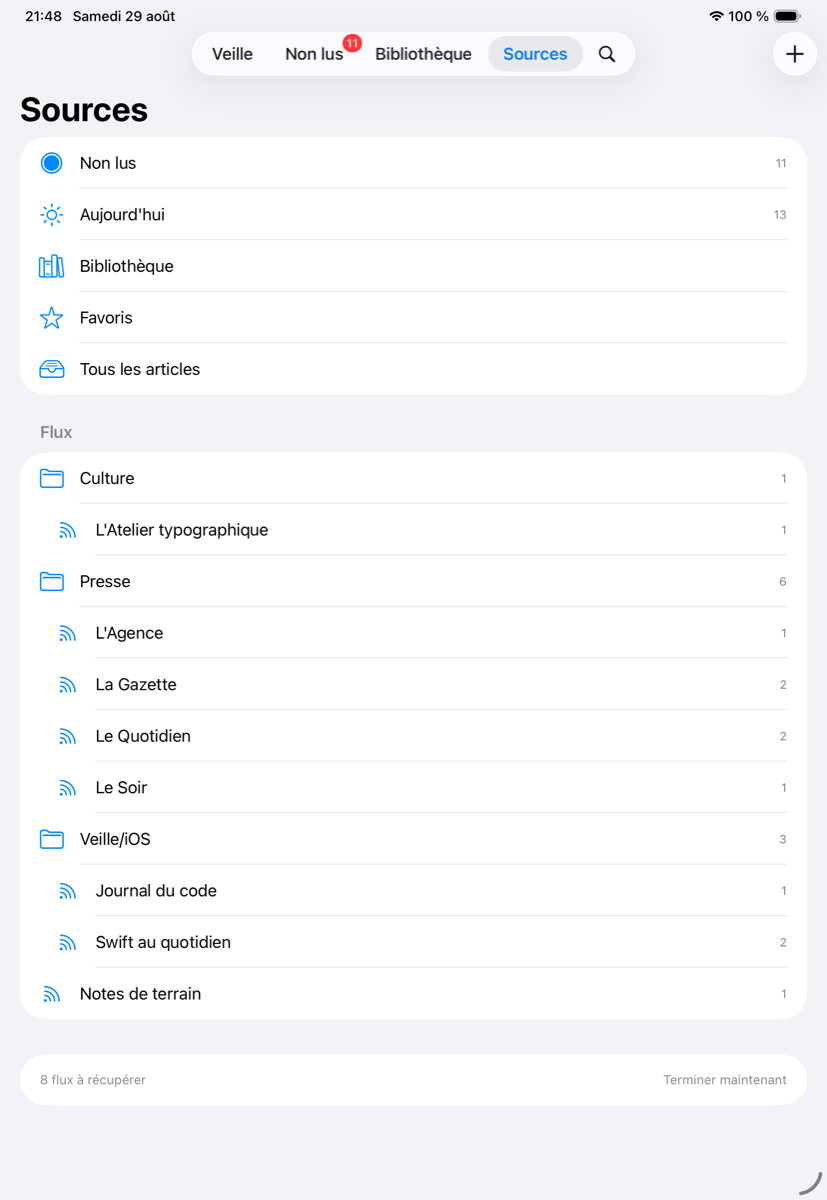
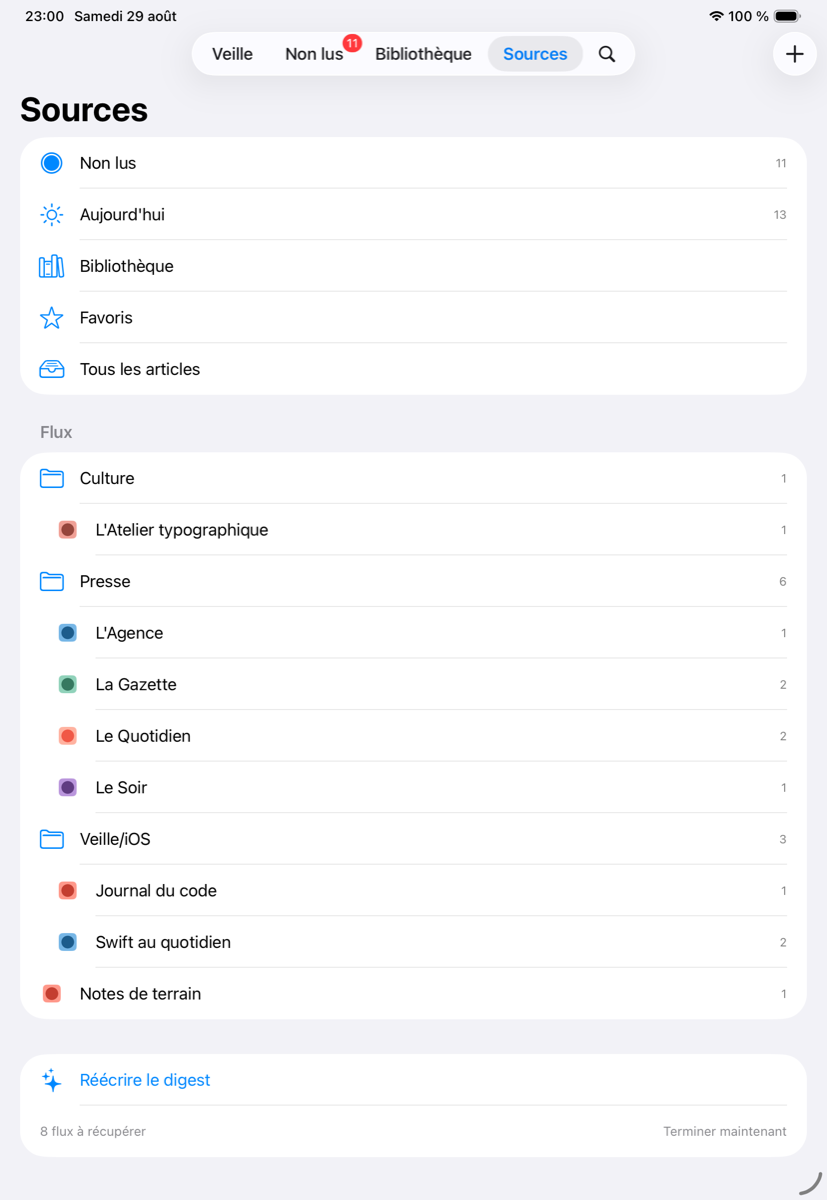
Give each source its mark
A list of feeds is a list of names, and names take reading. A mark is
recognized before it is read, which is the whole of what a favicon is
for. It stands beside a feed in the sources list, in place of the generic
symbol, and beside the name of the room on every article row.

Three addresses are tried, in order : what the feed states, since the
publisher chose it and Atom and JSON Feed both mean a square by it ;
`apple-touch-icon.png`, a well-known path, square by convention and large
enough to stay crisp where a sixteen pixel favicon would not ; and
`favicon.ico`, the oldest well-known path and still the most widely
served, since browsers ask for it whether a page mentions it or not. The
well-known ones hang off the root of the site, never off the page the
feed happens to point at.

Nothing is asked for until a row is on screen, and what comes back is
kept on disk by the same store that keeps the pictures, so a feed costs
one request rather than one per appearance. A feed that answers none of
the three wears the generic mark : a list of sources must keep its column
of marks whether a publisher serves one or not, which is the one place a
picture does not simply vanish when it fails.

Nothing new travels or is stored : `Feed.iconURL` was already parsed,
already kept and already synchronized ; it was simply never drawn.

319 tests, 4 of them new, passing on macOS and on the iOS simulator.

diff --git a/Flong/Support/FeedIcon.swift b/Flong/Support/FeedIcon.swift
@@ -1,0 +1,102 @@
+//
+//  FeedIcon.swift
+//  Flong
+//
+//  Created by François Rousselet on 29/08/2026.
+//
+//  This Source Code Form is subject to the terms of the Mozilla Public
+//  License, v. 2.0. If a copy of the MPL was not distributed with this
+//  file, You can obtain one at https://mozilla.org/MPL/2.0/.
+//
+
+import CoreGraphics
+import SwiftUI
+
+/// The mark a source puts on its own articles.
+///
+/// A list of feeds is a list of names, and names take reading. A mark is
+/// recognized before it is read, which is the whole of what a favicon is for.
+///
+/// Three addresses are tried, in this order :
+///
+/// 1. **What the feed states**, since the publisher chose it. Atom's `icon` and
+///    JSON Feed's `icon` and `favicon` are square by their specifications ;
+///    RSS's `image` is a banner, and a banner cropped to a square still shows
+///    the middle of a logo, which is usually the logo.
+/// 2. **`apple-touch-icon.png`**, a well-known path, square by convention and
+///    large enough to stay crisp where a sixteen pixel favicon would not.
+/// 3. **`favicon.ico`**, the oldest well-known path and still the most widely
+///    served, since browsers ask for it whether a page mentions it or not.
+///
+/// Nothing is asked for until a row is on screen, and what comes back is kept
+/// on disk, so a feed costs one request and not one per appearance. A feed that
+/// answers none of the three wears the generic mark and is asked no more that
+/// session.
+nonisolated enum FeedIcon {
+    static let wellKnown = ["apple-touch-icon.png", "favicon.ico"]
+
+    /// The addresses worth trying for a source, best first.
+    static func candidates(stated: URL?, site: URL?) -> [URL] {
+        var addresses: [URL] = []
+        if let stated { addresses.append(stated) }
+
+        // The well-known paths hang off the root of the site, never off the page
+        // the feed happens to point at.
+        if let site, let host = site.host(), let scheme = site.scheme,
+            var root = URL(string: "\(scheme)://\(host)")
+        {
+            if let port = site.port { root = URL(string: "\(scheme)://\(host):\(port)") ?? root }
+            addresses.append(contentsOf: wellKnown.map { root.appending(path: $0) })
+        }
+
+        var seen = Set<URL>()
+        return addresses.filter { seen.insert($0).inserted }
+    }
+}
+
+/// The mark of a source, at the size it is shown.
+struct FeedIconView: View {
+    let stated: URL?
+    let site: URL?
+    var side: CGFloat = 18
+
+    @State private var image: CGImage?
+    @Environment(\.displayScale) private var displayScale
+
+    var body: some View {
+        Group {
+            if let image {
+                Image(decorative: image, scale: displayScale)
+                    .resizable()
+                    .scaledToFill()
+                    .frame(width: side, height: side)
+                    .clipShape(.rect(cornerRadius: side / 4.5))
+            } else {
+                // Not a blank : a list of feeds must keep its column of marks
+                // whether a publisher serves one or not.
+                Image(systemName: "dot.radiowaves.up.forward")
+                    .font(.system(size: side * 0.8))
+                    .foregroundStyle(.secondary)
+                    .frame(width: side, height: side)
+            }
+        }
+        .accessibilityHidden(true)
+        .task(id: stated ?? site) { await load() }
+    }
+
+    private func load() async {
+        let candidates = FeedIcon.candidates(stated: stated, site: site)
+        guard !candidates.isEmpty else { return }
+
+        let pixels = max(Int(side * displayScale), 1)
+        for candidate in candidates {
+            guard !Task.isCancelled else { return }
+            guard let found = try? await ImageStore.shared.image(at: candidate, maximumPixels: pixels) else {
+                continue
+            }
+
+            withAnimation(.easeOut(duration: 0.15)) { image = found }
+            return
+        }
+    }
+}

diff --git a/FlongTests/CoverImageTests.swift b/FlongTests/CoverImageTests.swift
@@ -140,4 +140,52 @@ struct CoverImageTests {
         // relative one here means a body that never went through it.
         #expect(CoverImage.inBody(html)?.absoluteString == "https://example.com/photo.jpg")
     }
+
+    // MARK: - The mark of a source
+
+    @Test("A source is tried where it says, then where marks are kept")
+    func iconCandidates() throws {
+        let stated = URL(string: "https://cdn.example.com/logo.png")!
+        let site = URL(string: "https://www.example.com/blog/")!
+
+        let candidates = FeedIcon.candidates(stated: stated, site: site).map(\.absoluteString)
+
+        #expect(
+            candidates == [
+                "https://cdn.example.com/logo.png",
+                // Off the root of the site, never off the page the feed points at.
+                "https://www.example.com/apple-touch-icon.png",
+                "https://www.example.com/favicon.ico",
+            ]
+        )
+    }
+
+    @Test("A source that states nothing is still looked for")
+    func iconWithoutAStatedOne() throws {
+        let candidates = FeedIcon.candidates(
+            stated: nil,
+            site: URL(string: "https://example.com:8443/feed.xml")
+        )
+        .map(\.absoluteString)
+
+        // The port is part of where the site is.
+        #expect(
+            candidates == ["https://example.com:8443/apple-touch-icon.png", "https://example.com:8443/favicon.ico"])
+    }
+
+    @Test("A source with nowhere to look for a mark is not looked for")
+    func iconWithNothingToGoOn() {
+        #expect(FeedIcon.candidates(stated: nil, site: nil).isEmpty)
+    }
+
+    @Test("A stated mark that is already a well-known path is tried once")
+    func iconWithoutDuplicates() throws {
+        let candidates = FeedIcon.candidates(
+            stated: URL(string: "https://example.com/favicon.ico"),
+            site: URL(string: "https://example.com/")
+        )
+
+        #expect(candidates.count == 2)
+        #expect(candidates.first?.absoluteString == "https://example.com/favicon.ico")
+    }
 }

diff --git a/Flong/Store/ArticleStore.swift b/Flong/Store/ArticleStore.swift
@@ -41,6 +41,10 @@ nonisolated struct ArticleSummary: Identifiable, Hashable, Sendable, FetchableRe
     let url: URL?
     /// The article's picture, when it has one.
     let imageURL: URL?
+    /// Where the source keeps its mark, and where the source itself is, for
+    /// the well-known paths a mark also lives at.
+    let feedIconURL: URL?
+    let feedSiteURL: URL?
 
     init(row: Row) {
         id = row["id"]
@@ -56,6 +60,10 @@ nonisolated struct ArticleSummary: Identifiable, Hashable, Sendable, FetchableRe
         hasMedia = row["has_media"] ?? false
         url = (row["url"] as String?).flatMap(URL.init(string:))
         imageURL = (row["image_url"] as String?).flatMap(URL.init(string:))
+        feedIconURL = (row["icon_url"] as String?).flatMap(URL.init(string:))
+        feedSiteURL =
+            (row["site_url"] as String?).flatMap(URL.init(string:))
+            ?? (row["feed_url"] as String?).flatMap(URL.init(string:))
     }
 }
 
@@ -149,6 +157,7 @@ nonisolated struct ArticleStore: Sendable {
     static let columns = """
         SELECT e.id, 'stream' AS origin, e.feed_id, e.title, e.excerpt, e.author, e.url,
                e.is_read, e.is_starred, e.has_media, e.image_url,
+               f.icon_url, f.site_url, f.url AS feed_url,
                COALESCE(e.published_at, e.received_at) AS date,
                f.title AS feed_title
         """

diff --git a/Flong/App/AppModel.swift b/Flong/App/AppModel.swift
@@ -28,6 +28,9 @@ nonisolated struct SidebarItem: Identifiable, Hashable, Sendable {
     /// in the reader's language.
     let title: String?
     let unreadCount: Int
+    /// Where a feed keeps its mark, when it is a feed and it states one.
+    var iconURL: URL?
+    var siteURL: URL?
     var children: [SidebarItem] = []
 
     var id: Kind { kind }
@@ -526,7 +529,13 @@ final class AppModel {
     }
 
     private func item(for feed: Feed, counts: [UUID: Int]) -> SidebarItem {
-        SidebarItem(kind: .feed(feed.id), title: feed.title, unreadCount: counts[feed.id] ?? 0)
+        SidebarItem(
+            kind: .feed(feed.id),
+            title: feed.title,
+            unreadCount: counts[feed.id] ?? 0,
+            iconURL: feed.iconURL,
+            siteURL: feed.siteURL ?? feed.url
+        )
     }
 
     /// Whether the list is showing the library rather than a view of the stream.

diff --git a/Flong/Features/Digest/DigestScreen.swift b/Flong/Features/Digest/DigestScreen.swift
@@ -368,9 +368,12 @@ struct ArticleRow: View {
                             .multilineTextAlignment(.leading)
                     }
 
-                    HStack(spacing: 8) {
+                    HStack(spacing: 6) {
+                        FeedIconView(stated: article.feedIconURL, site: article.feedSiteURL, side: 13)
+
                         Text(verbatim: article.feedTitle)
                             .lineLimit(1)
+                            .padding(.trailing, 2)
                         Text(article.date, format: .relative(presentation: .numeric))
                             .lineLimit(1)
                         if article.isStarred {

diff --git a/Flong/Features/Shell/SourcesScreen.swift b/Flong/Features/Shell/SourcesScreen.swift
@@ -209,7 +209,13 @@ struct SourcesScreen: View {
                     }
                 }
             } icon: {
-                Image(systemName: Self.icon(of: item.kind))
+                // A feed wears its own mark ; the views above it are the
+                // application's own and wear the application's symbols.
+                if case .feed = item.kind {
+                    FeedIconView(stated: item.iconURL, site: item.siteURL)
+                } else {
+                    Image(systemName: Self.icon(of: item.kind))
+                }
             }
         }
         .buttonStyle(.plain)

diff --git a/Flong/Store/LibraryStore.swift b/Flong/Store/LibraryStore.swift
@@ -224,6 +224,7 @@ nonisolated struct LibraryStore: Sendable {
                COALESCE(feed_title, '') AS feed_title,
                title, author, url,
                1 AS is_read, 1 AS is_starred, 0 AS has_media, image_url,
+               NULL AS icon_url, feed_url AS site_url, feed_url,
                SUBSTR(COALESCE(plain_text, ''), 1, 300) AS excerpt,
                COALESCE(published_at, promoted_at) AS date
         FROM library_item

diff --git a/docs/technical/interface.md b/docs/technical/interface.md
@@ -49,6 +49,14 @@ Beside a picture on a phone the facts line runs out of room, and a line that wra
 
 A picture occupies nothing until it has something to show, and nothing again if the address turns out to be dead : a grey rectangle where a photograph failed is worse than no photograph, and a page of them looks broken. It is decorative and hidden from VoiceOver, since feeds almost never carry alternative text and reading a headline out twice helps nobody.
 
+## The mark of a source
+
+A list of feeds is a list of names, and names take reading. A mark is recognized before it is read, which is the whole of what a favicon is for. It stands beside a feed in the sources list, in place of the generic symbol, and beside the name of the room on every article row.
+
+Three addresses are tried, in order : **what the feed states**, since the publisher chose it ; **`apple-touch-icon.png`**, a well-known path, square by convention and large enough to stay crisp where a sixteen pixel favicon would not ; and **`favicon.ico`**, the oldest well-known path and still the most widely served, since browsers ask for it whether a page mentions it or not. The well-known ones hang off the root of the site, never off the page the feed happens to point at.
+
+Nothing is asked for until a row is on screen, and what comes back is kept on disk, so a feed costs one request rather than one per appearance. A feed that answers none of the three wears the generic mark : a list of sources must keep its column of marks whether a publisher serves one or not, which is the one place a picture does not simply vanish when it fails.
+
 ## Motion that says something
 
 Motion is either information or decoration, and decoration on a screen read every morning becomes noise by the second week. Three movements survive :

diff --git a/CHANGELOG.md b/CHANGELOG.md
@@ -36,3 +36,4 @@ The format is based on [Keep a Changelog](https://keepachangelog.com/en/1.1.0/),
 - The digest is titled with the day's date rather than with its own name, and refreshes on a pull and on returning to the foreground, the Mac keeping the command in its toolbar.
 - An editorial page rather than a control panel : one readable column, serif for what was written and sans for what the application says about it, hairline rules in place of cards, and Liquid Glass left to the system's own navigation bar, where Apple's guidance keeps it.
 - Pictures on the page : the first story runs its picture across the column, the others keep it to a square at the side, decoded at the size they are drawn and cached on disk rather than fetched twice.
+- The mark of each source beside its name, in the sources list and on every article row, taken from what the feed states or from the well-known paths a site keeps one at, and falling back to a generic mark rather than a hole.
